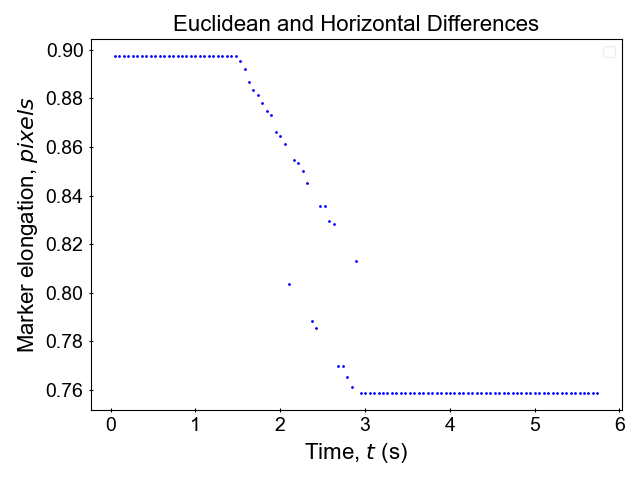
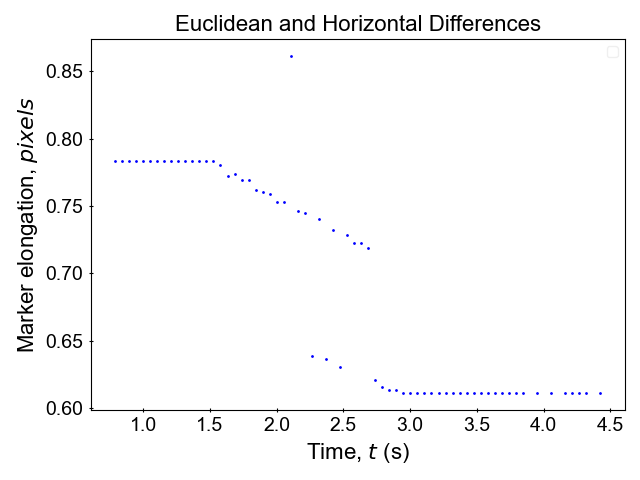
updates/fixes to outlier removal tool

diff --git a/analysis.py b/analysis.py
@@ -55,17 +55,25 @@ def get_time_labels(df):
 
     return time_col, time_label, time_unit
 
-def check_tracker_data_lengths(df, n_trackers, num_tracker_datasets):
+def check_tracker_data_lengths(df, n_trackers):
     tracker_shapes  = []
-    for dataset in range(num_tracker_datasets):
+    col_start, col_end, n_sets = get_num_datasets(df)
+    for dataset in range(col_start, col_end+1, 1):
         for tracker in range(n_trackers):
-            cur_df = df[df[f'{dataset+1}-Tracker'] == tracker+1]
+            cur_df = df[df[f'{dataset}-Tracker'] == tracker+1]
             tracker_shapes.append(cur_df.shape[0])
         min_len, max_len = min(tracker_shapes), max(tracker_shapes)
     if min_len != max_len:
         msg = "ERROR: Length of data entries for trackers are different.\n\n"+\
             "Please reattempt tracking"
         error_popup(msg)
+
+def get_num_datasets(df):
+    col_start = int(df.columns[2][0])
+    col_end = int(df.columns[-1][0])
+    n_sets = col_end - col_start + 1
+
+    return col_start, col_end, n_sets
 
 def check_num_trackers_with_num_datasets(n_trackers, num_tracker_datasets):
     data_multiplicity_type = 0
@@ -78,6 +86,8 @@ def check_num_trackers_with_num_datasets(n_trackers, num_tracker_datasets):
         data_multiplicity_type = DataMultiplicity.VIDEOS
     elif n_trackers > 1 and num_tracker_datasets == 1:
         data_multiplicity_type = DataMultiplicity.TRACKERS
+    elif n_trackers == 1 and num_tracker_datasets == 1:
+        data_multiplicity_type = DataMultiplicity.SINGLE
 
     return data_multiplicity_type
 
@@ -222,13 +232,13 @@ def analyze_marker_deltas(user_unit_conversion, df=None, will_save_figures=True)
     
     time_col, time_label, _ = get_time_labels(df)
     # grab relevant data and put into np array
-    m1_df = df[df['Tracker'] == 1]
-    m2_df = df[df['Tracker'] == 2]
+    m1_df = df[df['1-Tracker'] == 1]
+    m2_df = df[df['1-Tracker'] == 2]
     time = df[time_col].unique()
-    m1_x = m1_df['x (px)'].values * conversion_factor
-    m1_y = m1_df['y (px)'].values * conversion_factor
-    m2_x = m2_df['x (px)'].values * conversion_factor
-    m2_y = m2_df['y (px)'].values * conversion_factor
+    m1_x = m1_df['1-x (px)'].values * conversion_factor
+    m1_y = m1_df['1-y (px)'].values * conversion_factor
+    m2_x = m2_df['1-x (px)'].values * conversion_factor
+    m2_y = m2_df['1-y (px)'].values * conversion_factor
 
     # find euclidean distances of markers
     marker_distances = []
@@ -292,8 +302,8 @@ def analyze_necking_point(user_unit_conversion, df=None, will_save_figures=True)
 
     time_col, time_label, _ = get_time_labels(df)
     time = df[time_col].values
-    necking_pt_x = df['x at necking point (px)'].values * conversion_factor
-    necking_pt_len = df['y necking distance (px)'].values * conversion_factor
+    necking_pt_x = df['1-x at necking point (px)'].values * conversion_factor
+    necking_pt_len = df['1-y necking distance (px)'].values * conversion_factor
 
     # radial strain (deltaR / R0)
     R0 = necking_pt_len[0]
@@ -394,7 +404,7 @@ def poissons_ratio(user_unit_conversion):
 
     print("Done")
 
-def marker_velocity(user_unit_conversion, df=None, will_save_figures=True):
+def marker_velocity(user_unit_conversion, df=None, will_save_figures=True, chosen_video_data=None):
     print("Finding Marker Velocity...")
     if len(user_unit_conversion) == 3:
         conversion_factor, conversion_units, n_ranges = user_unit_conversion
@@ -402,13 +412,17 @@ def marker_velocity(user_unit_conversion, df=None, will_save_figures=True):
         conversion_factor, conversion_units = user_unit_conversion
         n_ranges = 5
 
+
     if not isinstance(df, pd.DataFrame):
         df = pd.read_csv("output/Tracking_Output.csv") # open csv created/modified from marker tracking process
     print(df.head())
 
     time_col, time_label, time_unit = get_time_labels(df)
-    num_tracker_datasets = int(df.columns[-1][0]) # get num datasets
-    n_trackers = df['1-Tracker'].unique().shape[0] # get number of trackers
+    _, _, num_tracker_datasets = get_num_datasets(df) # get num datasets
+    if chosen_video_data is None:
+        n_trackers = df['1-Tracker'].unique().shape[0] # get number of trackers
+    else:
+        n_trackers = df[f'{chosen_video_data}-Tracker'].unique().shape[0] # get number of trackers
     n_plots = 0
     label = ''
     times = []
@@ -418,10 +432,9 @@ def marker_velocity(user_unit_conversion, df=None, will_save_figures=True):
 
     # determine if there are multiple trackers and 1 video, or multiple videos and 1 tracker
     data_multiplicity_type = check_num_trackers_with_num_datasets(n_trackers, num_tracker_datasets)
-    
     if data_multiplicity_type == DataMultiplicity.TRACKERS or data_multiplicity_type == DataMultiplicity.SINGLE:
         # account for mismatch lengths of tracker information (if 1 tracker fell off before the other)
-        check_tracker_data_lengths(df, n_trackers, num_tracker_datasets)
+        check_tracker_data_lengths(df, n_trackers)
         n_plots = n_trackers
         label = 'Tracker'
         num_sets = n_trackers
@@ -433,8 +446,16 @@ def marker_velocity(user_unit_conversion, df=None, will_save_figures=True):
     # grab relevant values from df
     vel_df = pd.DataFrame({time_col: df[time_col].unique()[:-1]})
     for n in range(num_sets):
-        if data_multiplicity_type == DataMultiplicity.TRACKERS or data_multiplicity_type == DataMultiplicity.SINGLE:
-            cur_df = df[df['Tracker'] == n+1]
+        if data_multiplicity_type == DataMultiplicity.SINGLE:
+            if chosen_video_data is None:
+                chosen_video_data = 1
+            print("TEST SINGLE AND CHOSEN VIDEO DATA")
+            cur_df = df[df[f'{chosen_video_data}-Tracker'] == n+1]
+            x = cur_df[f'{chosen_video_data}-x (px)'].values * conversion_factor
+            y = cur_df[f'{chosen_video_data}-y (px)'].values * conversion_factor
+            time = cur_df[time_col].values
+        elif data_multiplicity_type == DataMultiplicity.TRACKERS:
+            cur_df = df[df['1-Tracker'] == n+1]
             x = cur_df['1-x (px)'].values * conversion_factor
             y = cur_df['1-y (px)'].values * conversion_factor
             time = cur_df[time_col].values
@@ -509,7 +530,7 @@ def marker_distance(user_unit_conversion):
     print(df.head())
 
     time_col, time_label, _ = get_time_labels(df)
-    num_tracker_datasets = int(df.columns[-1][0]) # get num datasets
+    _, _, num_tracker_datasets = get_num_datasets(df) # get num datasets
     n_trackers = df['1-Tracker'].unique().shape[0] # get number of trackers
     rms_disps = []
     time = df[time_col].unique()
@@ -522,7 +543,7 @@ def marker_distance(user_unit_conversion):
 
     if data_multiplicity_type == DataMultiplicity.TRACKERS or data_multiplicity_type == DataMultiplicity.SINGLE:
         # account for mismatch lengths of tracker information (if 1 tracker fell off before the other)
-        check_tracker_data_lengths(df, n_trackers, num_tracker_datasets)
+        check_tracker_data_lengths(df, n_trackers)
         n_plots = n_trackers
         label = 'Tracker'
         num_sets = n_trackers
@@ -554,7 +575,7 @@ def marker_distance(user_unit_conversion):
     disp_fig, disp_ax = plot_scatter_data(time[:-1], rms_disps, plot_args, n_plots)
     disp_fig.savefig("figures/marker_RMS_displacement.png")
 
-def single_marker_spread(user_unit_conversion, df=None, will_save_figures=True):
+def single_marker_spread(user_unit_conversion, df=None, will_save_figures=True, chosen_video_data=None):
     print("Finding Marker Spread...")
     conversion_factor, conversion_units = user_unit_conversion
 
@@ -562,13 +583,20 @@ def single_marker_spread(user_unit_conversion, df=None, will_save_figures=True):
         df = pd.read_csv("output/Surface_Area_Output.csv") # open csv created/modified from marker tracking process
     print(df.head())
 
-    num_tracker_datasets = int(df.columns[-1][0])
+    _, _, num_tracker_datasets = get_num_datasets(df)
     time_col, time_label, time_unit = get_time_labels(df)
+    data_multiplicity_type = check_num_trackers_with_num_datasets(1, num_tracker_datasets)
 
     surface_areas = []
     time = df[time_col].values
     for i in range(num_tracker_datasets):
-        surface_area = df[f'{i+1}-cell surface area (px^2)'].values * conversion_factor
+        if data_multiplicity_type == DataMultiplicity.SINGLE:
+            if chosen_video_data is None:
+                chosen_video_data = 1
+            surface_area = df[f'{chosen_video_data}-cell surface area (px^2)'].values * conversion_factor
+        else:
+            surface_area = df[f'{i+1}-cell surface area (px^2)'].values * conversion_factor
+        
         surface_areas.append(surface_area)
 
     # plot

diff --git a/main.py b/main.py
@@ -363,6 +363,7 @@ class TrackingUI:
         else:
             msg = "ERROR: Please indicate if this tracking operation will append or overwrite existing tracking data"
             error_popup(msg)
+            return
 
         match option:
             case 0:
@@ -567,17 +568,28 @@ class OutlierRemoval:
         self.output_files = {
             'marker_deltas': 'output/Tracking_Output.csv',
             'necking_point': 'output/Necking_Point_Output.csv',
-            'marker_tracking': 'output/Tracking_Output.csv'
+            'marker_tracking': 'output/Tracking_Output.csv',
+            'surface_area': 'output/Surface_Area_Output.csv'
         }
 
-        self.selected_data = tk.StringVar()
+        # prompt for input of which dataset
+        self.which_dataset = 1
+        self.which_dataset_label = ttk.Label(self.window, text="Enter number of which dataset to remove outliers from")
+        self.which_dataset_label.pack()
+        self.which_dataset_entry = ttk.Entry(self.window)
+        self.which_dataset_entry.insert(0, "1")
+        self.which_dataset_entry.pack()
+
         # radio buttons for file selection
-        self.marker_radio = ttk.Radiobutton(self.window, text="Marker deltas", variable=self.selected_data, value='marker_deltas', command=self.load_plot)
+        self.selected_data = tk.StringVar()
+        self.marker_radio = ttk.Radiobutton(self.window, text="Marker deltas (Hydrogels)", variable=self.selected_data, value='marker_deltas', command=self.load_plot)
         self.marker_radio.pack()
-        self.necking_radio = ttk.Radiobutton(self.window, text="Necking point", variable=self.selected_data, value='necking_point', command=self.load_plot)
+        self.necking_radio = ttk.Radiobutton(self.window, text="Necking point (Hydrogels)", variable=self.selected_data, value='necking_point', command=self.load_plot)
         self.necking_radio.pack()
-        self.marker_vel_radio = ttk.Radiobutton(self.window, text="Marker velocities", variable=self.selected_data, value='marker_tracking', command=self.load_plot)
+        self.marker_vel_radio = ttk.Radiobutton(self.window, text="Marker velocities (Cell tracking)", variable=self.selected_data, value='marker_tracking', command=self.load_plot)
         self.marker_vel_radio.pack()
+        self.surface_area_radio = ttk.Radiobutton(self.window, text="Surface area (Cell tracking)", variable=self.selected_data, value='surface_area', command=self.load_plot)
+        self.surface_area_radio.pack()
 
         self.undo_removals_button = ttk.Button(self.window, text="Undo Selections", command=self.undo_selections)
         self.undo_removals_button.pack(pady=12)
@@ -588,25 +600,42 @@ class OutlierRemoval:
         self.removed_label = ttk.Label(self.window, text="Selections undone")
 
     def load_data(self, is_updating=False):
-        if not is_updating:
+        self.which_dataset = int(self.which_dataset_entry.get())
+        if not is_updating: # initial loading and grabbing of relevant columns of dataset
             self.data_type = self.selected_data.get()
-            fp = self.output_files[self.selected_data.get()]
-            self.df = pd.read_csv(fp)
+            self.fp = self.output_files[self.selected_data.get()]
+            self.df = pd.read_csv(self.fp)
+            self.x_col, self.x_label, _ = analysis.get_time_labels(self.df)
+            relevant_columns = [col for col in self.df.columns if f"{self.which_dataset}-" in col]
+            relevant_columns = ['Frame', self.x_col] + relevant_columns
+            self.df = self.df[relevant_columns]
 
         # get appropriate columns
-        self.x_col, self.x_label, _ = analysis.get_time_labels(self.df)
         self.x, self.y = None, None
         if self.data_type == 'marker_deltas':
             # time and marker distances
             self.x, self.y, self.plot_args = analysis.analyze_marker_deltas(self.user_units, self.df, False)
-            self.n_trackers = 2
+            self.n_sets = 2
         elif self.data_type == 'necking_point':
             # time and necking radial strain (necking pt length as a ratio)
             self.x, self.y, self.plot_args = analysis.analyze_necking_point(self.user_units, self.df, False)
-            self.n_trackers = 1
+            self.n_sets = 1
         elif self.data_type == 'marker_tracking':
             # time and velocity of marker
-            self.x, self.y, self.plot_args, self.n_trackers = analysis.marker_velocity(self.user_units, self.df, False)
+            try:
+                self.x, self.y, self.plot_args, self.n_sets = analysis.marker_velocity(self.user_units, self.df, False, self.which_dataset)
+            except IndexError as e:
+                print(e)
+                msg = f"Could not find dataset: {self.which_dataset} in the output data file"
+                error_popup(msg)
+        elif self.data_type == 'surface_area':
+            # time and surface area of object being tracked
+            try:
+                self.x, self.y, self.plot_args, self.n_sets = analysis.single_marker_spread(self.user_units, self.df, False, self.which_dataset)
+            except IndexError as e:
+                print(e)
+                msg = f"Could not find dataset: {self.which_dataset} in the output data file"
+                error_popup(msg)
 
     def create_figure(self):
         # Create a new figure and axes
@@ -644,8 +673,8 @@ class OutlierRemoval:
     def onclick(self, event):
         if event.name == 'pick_event':
             x_click = event.mouseevent.xdata
-            # n_trackers entries for each time point
-            idx = (np.abs(self.x - x_click)).argmin() * self.n_trackers
+            # n_sets entries for each time point
+            idx = (np.abs(self.x - x_click)).argmin() * self.n_sets
 
             # find and remove clicked pt
             x = self.df.iloc[idx][self.x_col]
@@ -669,7 +698,14 @@ class OutlierRemoval:
     def confirm(self):
         self.confirm_label.pack()
         self.window.after(5000, lambda: self.confirm_label.pack_forget())
-        self.df.to_csv(self.output_files[self.data_type], index=None)
+        orig_df = pd.read_csv(self.fp)
+        print(orig_df)
+        for col in self.df.columns:
+            orig_df[col] = self.df[col]
+        orig_df.dropna(inplace=True)
+        orig_df.set_index('Frame')
+        print(orig_df)
+        orig_df.to_csv(self.output_files[self.data_type], index=False)
 
     def load_plot(self):
         self.create_figure()

diff --git a/tracking.py b/tracking.py
@@ -155,7 +155,7 @@ def track_markers(
 
         # updating trackers and saving location
         for i, tracker in enumerate(trackers):
-            success, bbox = tracker.update(scaled_frame)
+            success, bbox = tracker.update(scaled_frame)              
 
             if success:  # get coords of marker on successful frame update
                 x_bbox, y_bbox, w_bbox, h_bbox = [int(coord) for coord in bbox]  # get coords of bbox in the scaled frame
@@ -171,6 +171,13 @@ def track_markers(
                 tracker_data['1-x (px)'].append(int((marker_center[0] / scale_factor)))  # scale back to the original frame resolution
                 tracker_data['1-y (px)'].append(int((marker_center[1] / scale_factor)))
                 cv2.rectangle(scaled_frame, (x_bbox, y_bbox), (x_bbox + w_bbox, y_bbox + h_bbox), (0, 255, 0), 2)  # update tracker rectangle
+
+            else:
+                msg = "WARNING: Lost tracking marker\n\nPlease retry after adjusting any of the following\n\n: -Parameters\n-Initial tracker placement\n-Frame selection"
+                warning_popup(msg)
+                cap.release()
+                cv2.destroyAllWindows()
+                return
 
         cv2.imshow("Tracking...", scaled_frame)  # show updated frame tracking
 
@@ -244,7 +251,6 @@ def necking_point(
         ret, frame = cap.read()
         cap.set(cv2.CAP_PROP_POS_FRAMES, frame_start + frame_num)
         frame_num += 1
-
         if not ret:
             break
 
@@ -406,7 +412,6 @@ def track_area(
 
     while frame_num < frame_end:
         ret, frame = cap.read()
-        time.sleep(0.05)
         if not ret:
             break
 
@@ -420,6 +425,12 @@ def track_area(
             x_bbox, y_bbox, w_bbox, h_bbox = [int(coord) for coord in bbox]  # get coords of bbox in the scaled frame
             marker_center = (x_bbox + w_bbox // 2, y_bbox + h_bbox // 2)  # get center of bbox
             cv2.rectangle(scaled_frame, (x_bbox, y_bbox), (x_bbox + w_bbox, y_bbox + h_bbox), (0, 255, 0), 2)  # update tracker rectangle
+        else:
+            msg = "WARNING: Lost tracking marker\n\nPlease retry after adjusting any of the following\n\n: -Parameters\n-Initial tracker placement\n-Frame selection"
+            warning_popup(msg)
+            cap.release()
+            cv2.destroyAllWindows()
+            return
 
         # Thresholding
         #_, binary_frame = cv2.threshold(blur_frame, 0, 255, cv2.THRESH_BINARY + cv2.THRESH_OTSU)

diff --git a/CHANGELOG.md b/CHANGELOG.md
@@ -9,11 +9,10 @@ Hydrogel
 - 
 
 Multi purpose
-- undo previous appending operation button in ui
-- outlier removal for surface area
 - adjust outlier removal to work with multiple dataset readings
     - text field to enter either number or 'all'
 - identifier for plot legend labels
+- clean up outlier removal ui using grid instead of pack
 
 Cell Mechanics
 - see about surface tracking on the lighter videos
@@ -25,7 +24,13 @@ Cell Mechanics
 - added ui buttons to select to undo previous append operation for each tracking operation
 - implemented functionality of those buttons
     - finds n_entities and locates columns with that number (and a dash) and removes them
-
+- added entry to outlier removal window to indicate which set to look for outliers in
+- fixed marker velocity outlier removal
+- fixed all poissons ratio analysis that broke during column renaming for appending data feature
+- added error check for cell velocity outlier removal to check if user entered erroneous dataset choice
+- added error checking for if tracker is lost indicating user to adjust params and retry
+- marker velocity outlier removal now works with user inputted datasets beyond the first
+- added marker spread to outlier removal tool
 
 3/10
 - reworked how data is recorded for all tracking operations s.t. initial columns have a 1 prepended to all column headers, instead of renaming column headers to 1 if appending
